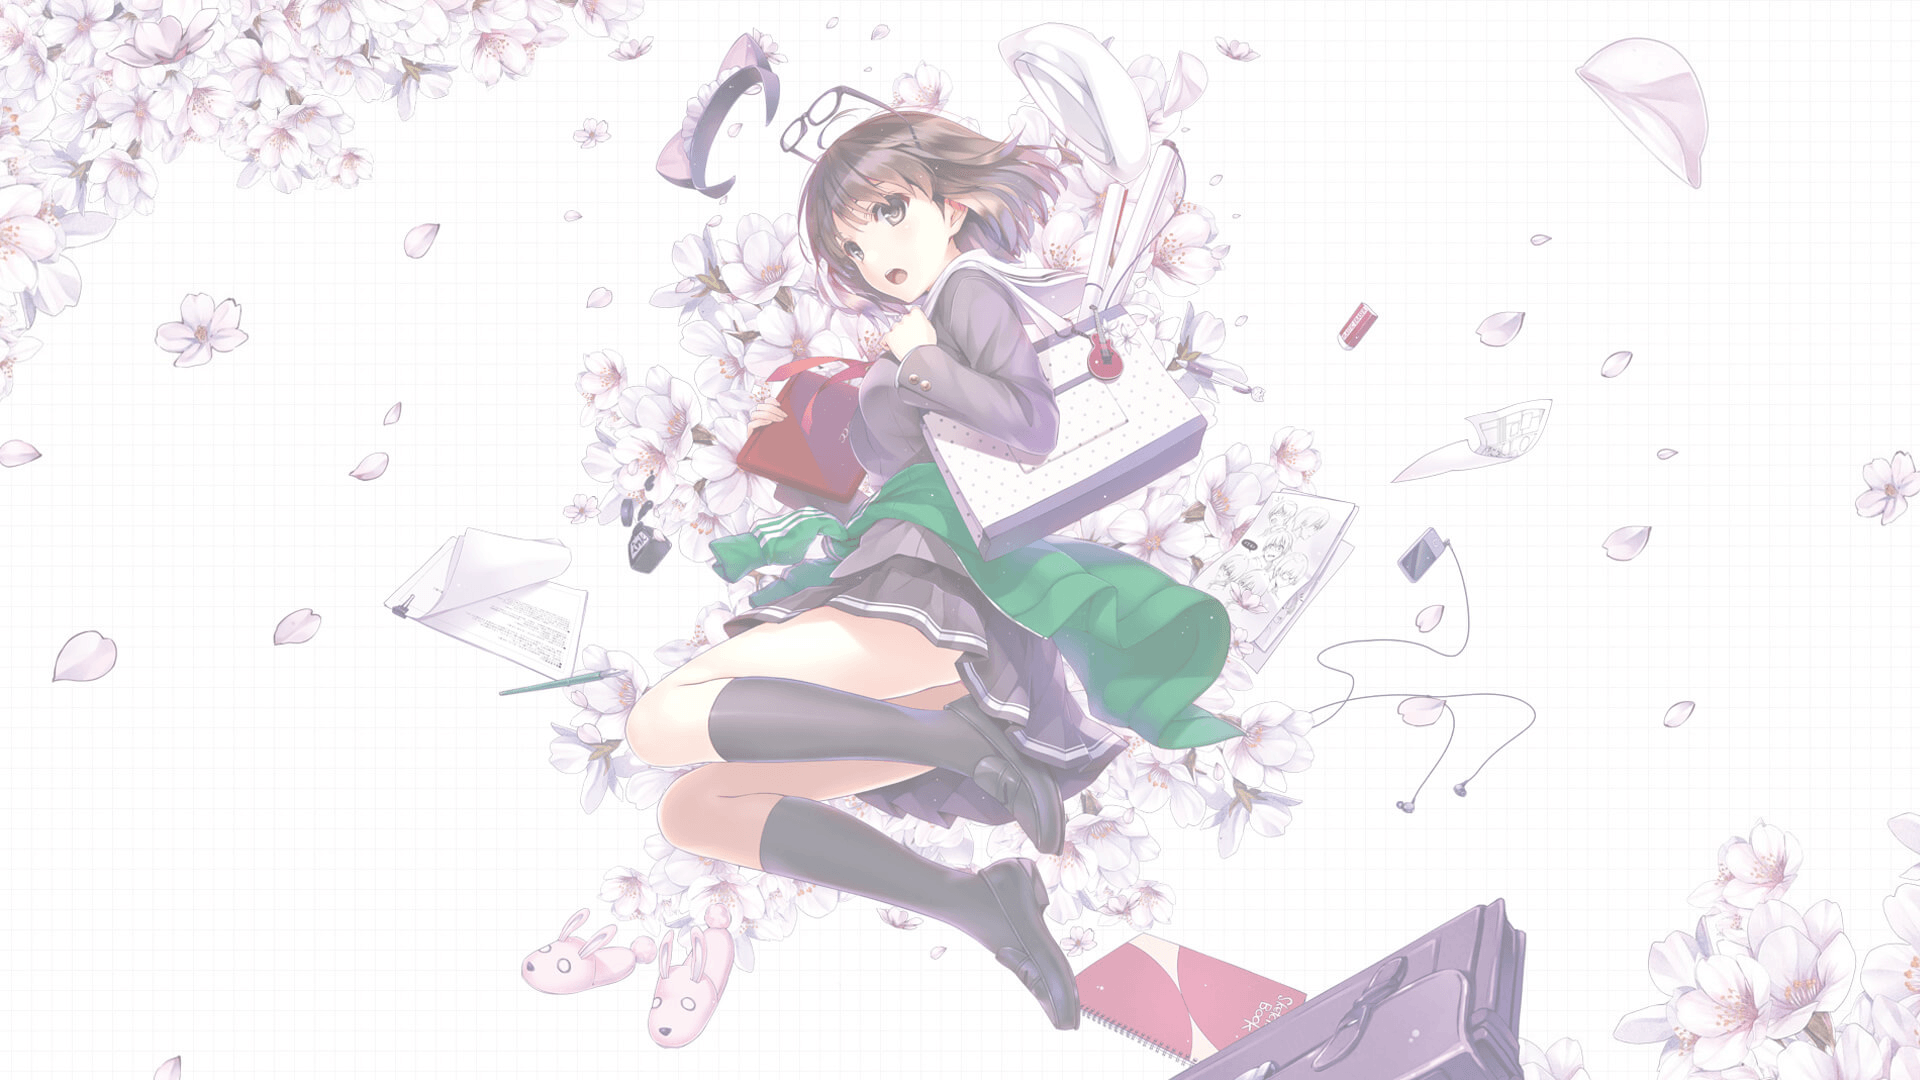
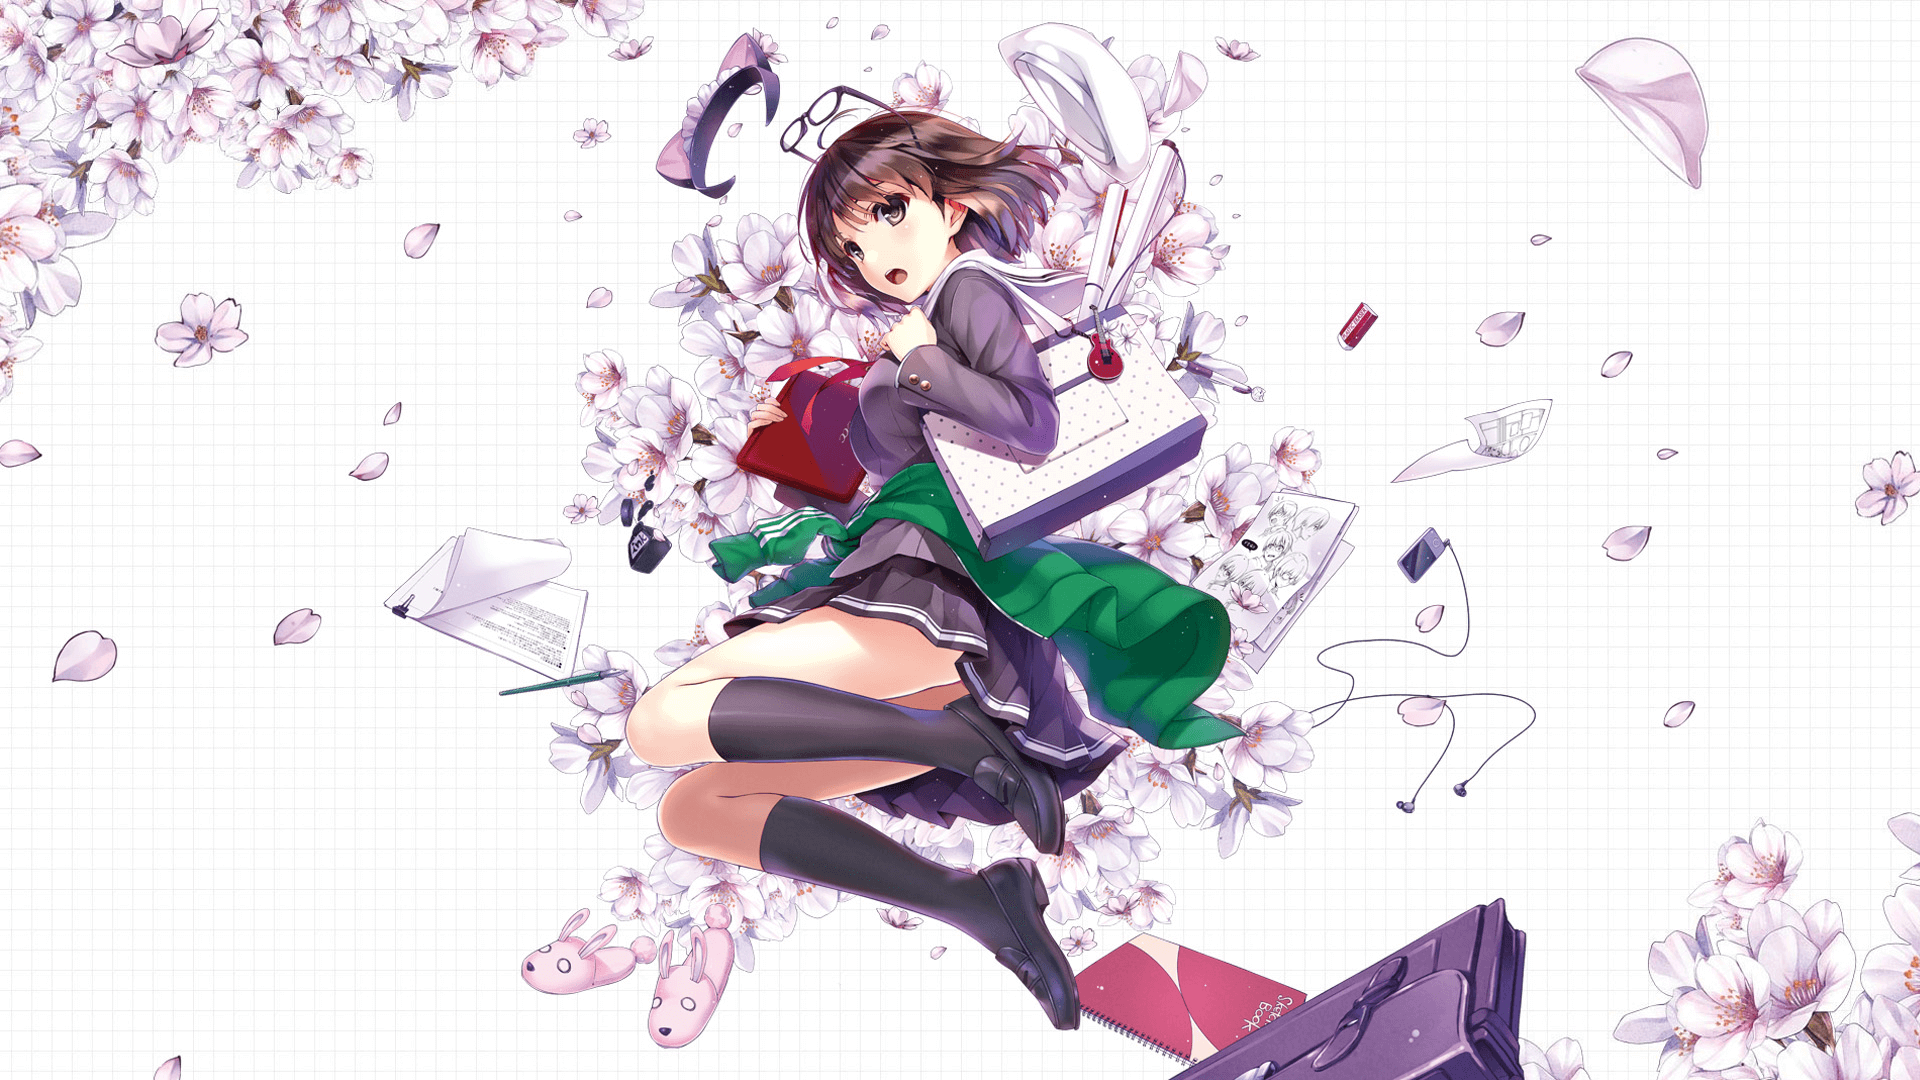
实现input[radio]样式

diff --git a/TanPageExtension/pages/newtab.html b/TanPageExtension/pages/newtab.html
@@ -91,7 +91,7 @@
 
     <!-- 设置 -->
     <i class="showSetting"></i>
-    <div class="setting" style="display: none;">
+    <div class="setting" style="display: block;">
         <!-- 顶部标题 -->
         <div class="head">
             <h4>TanPage - 设置</h4>
@@ -110,14 +110,25 @@
             <!-- 壁纸 -->
             <div class="block">
                 <p class="title">壁纸</p>
-                <label class="pointer"><input type="radio" name="wp" value="0">默认壁纸</label><br>
-                <p>使用默认的壁纸</p>
+                <div class="radio-box">
+                    <label for="yes" class="choose-box"><input type="radio" id="yes" name="choose" checked/>
+                        <span>默认壁纸</span>
+                    </label>
+                </div>
 
-                <label class="pointer"><input type="radio" name="wp" value="1">Bing壁纸</label><br>
-                <p>使用必应每日一图</p>
+                <div class="radio-box">
+                    <label for="no" class="choose-box">
+                        <input type="radio" id="no" name="choose" />
+                        <span>Bing壁纸</span>
+                    </label>
+                </div>
 
-                <label class="pointer"><input type="radio" name="wp" value="2">本地壁纸</label>
-                <p>使用本地图片</p>
+                <div class="radio-box">
+                    <label for="n0o" class="choose-box">
+                        <input type="radio" id="n0o" name="choose" />
+                        <span>本地壁纸</span>
+                    </label>
+                </div>
             </div>
 
             <!-- 壁纸白色笼罩 -->

diff --git a/TanPageExtension/css/general.less b/TanPageExtension/css/general.less
@@ -70,3 +70,47 @@ input[type=range] {
     background: #ededed;
   }
 }
+
+// 单选按钮
+.radio-box {
+  label {
+    padding-left: 10px;
+    position    : relative;
+    display     : inline-block;
+    height      : 40px;
+    line-height : 40px;
+    margin-left: 10px;
+    cursor      : pointer;
+
+    input[type="radio"] {
+      width : 0;
+      height: 0;
+
+      &::before {
+        content      : '';
+        display      : inline-block;
+        width        : 14px;
+        height       : 14px;
+        border-radius: 50%;
+        border       : 1px solid rgb(0, 171, 134);
+        margin-right : 15px;
+        position     : absolute;
+        top          : 12px;
+        left         : 0;
+      }
+
+      &:checked::before {
+        background-clip : content-box;
+        background-color: #0069AB;
+        width           : 8px;
+        height          : 8px;
+        padding         : 3px;
+      }
+    }
+
+    span {
+      margin-left: 10px;
+      font-size  : 15px;
+    }
+  }
+}

diff --git a/TanPageExtension/css/general.css b/TanPageExtension/css/general.css
@@ -51,3 +51,39 @@ input[type=range]:focus {
 .scroll::-webkit-scrollbar-corner {
   background: #ededed;
 }
+.radio-box label {
+  padding-left: 10px;
+  position: relative;
+  display: inline-block;
+  height: 40px;
+  line-height: 40px;
+  margin-left: 10px;
+  cursor: pointer;
+}
+.radio-box label input[type="radio"] {
+  width: 0;
+  height: 0;
+}
+.radio-box label input[type="radio"]::before {
+  content: '';
+  display: inline-block;
+  width: 14px;
+  height: 14px;
+  border-radius: 50%;
+  border: 1px solid #00ab86;
+  margin-right: 15px;
+  position: absolute;
+  top: 12px;
+  left: 0;
+}
+.radio-box label input[type="radio"]:checked::before {
+  background-clip: content-box;
+  background-color: #0069AB;
+  width: 8px;
+  height: 8px;
+  padding: 3px;
+}
+.radio-box label span {
+  margin-left: 10px;
+  font-size: 15px;
+}

diff --git a/TanPageExtension/css/newtab.less b/TanPageExtension/css/newtab.less
@@ -30,7 +30,7 @@ body {
   width          : 100%;
   height         : 100%;
   z-index        : -10;
-  background     : url("../imgs/bgs/bg-2.png") no-repeat center 0;
+  background     : url("../imgs/bgs/bg-3.png") no-repeat center 0;
   background-size: cover;
 
 }
@@ -376,12 +376,23 @@ body {
         margin-bottom: 8px;
       }
 
+      // 滑动条的值
       .rangeValue {
         font-size : 15px;
         color     : #2ecc71;
         margin    : 10px 5% 0 0;
         text-align: right;
       }
+
+      // 单选按钮
+      // .radioLine {
+      //   padding-left: 20px;
+
+
+      //   input[type=radio] {}
+
+      //   p {}
+      // }
 
     }
   }

diff --git a/TanPageExtension/css/newtab.css b/TanPageExtension/css/newtab.css
@@ -17,7 +17,7 @@ body {
   width: 100%;
   height: 100%;
   z-index: -10;
-  background: url("../imgs/bgs/bg-2.png") no-repeat center 0;
+  background: url("../imgs/bgs/bg-3.png") no-repeat center 0;
   background-size: cover;
 }
 .search {
